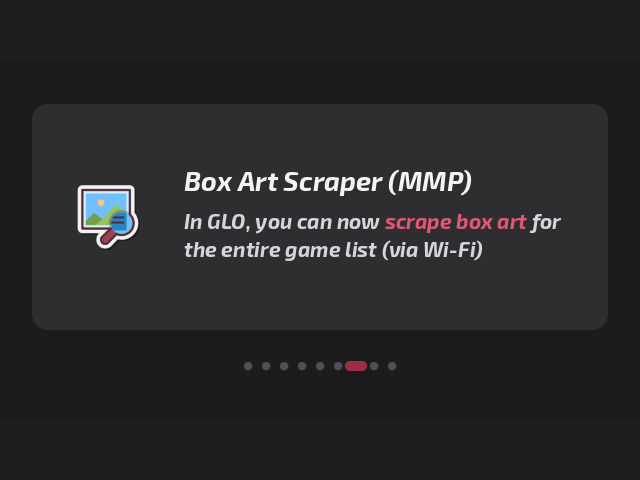
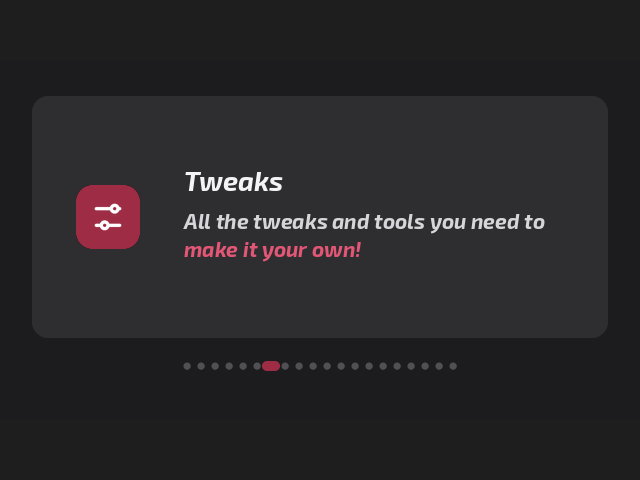
New UI: 20 tips during the installation, about RedOnion's own apps too
The installer showed 9 tips, some from Onion's "MMP" days. Now 20, one
every 10 s as before (a few minutes of installation), each with a line
icon in a red badge as in the apps' headers and, for the apps, where to
find them (Package Manager > Apps, Tweaks > Network...):
the fresh RedOnion, GameSwitcher, GLO (core, netplay, box art), Game Info,
Saved Games, the scraper, Tweaks, button shortcuts, network services,
Package Manager, Kids Mode, Guest Mode, RedOnion Battery Monitor, SD Card
Doctor, AudioTune and DisplayCal, RedAmp and MiniCinema, Backup, updates
over Wi-Fi, Activity Tracker and the Quick Guide.

installUI counts the slides in res/ instead of a fixed 9, so a tip can be
added without changing the code.

Claude-Session: https://claude.ai/code/session_01WmBtPRhxkLQsUhwJBnDVjo

diff --git a/src/installUI/installUI.c b/src/installUI/installUI.c
@@ -31,6 +31,18 @@
 
 static SDL_Surface *slide = NULL;
 
+/* How many tip slides there are: res/installSlide0.png, 1, 2... */
+static int _countSlides(void)
+{
+    char image_path[STR_MAX];
+    int n = 0;
+    for (;; n++) {
+        sprintf(image_path, "res/installSlide%d.png", n);
+        if (!exists(image_path))
+            return n;
+    }
+}
+
 SDL_Surface *_loadSlide(int index)
 {
     char image_path[STR_MAX];
@@ -123,7 +135,7 @@ int main(int argc, char *argv[])
     sprintf(version_str, "v%s", ONION_VERSION);
 
     int current_slide = -1;
-    int num_slides = 9;
+    int num_slides = _countSlides(); // 20 tips in the new UI (9 before)
     config_get("currentSlide", CONFIG_INT, &current_slide);
 
     bool quit = false;
